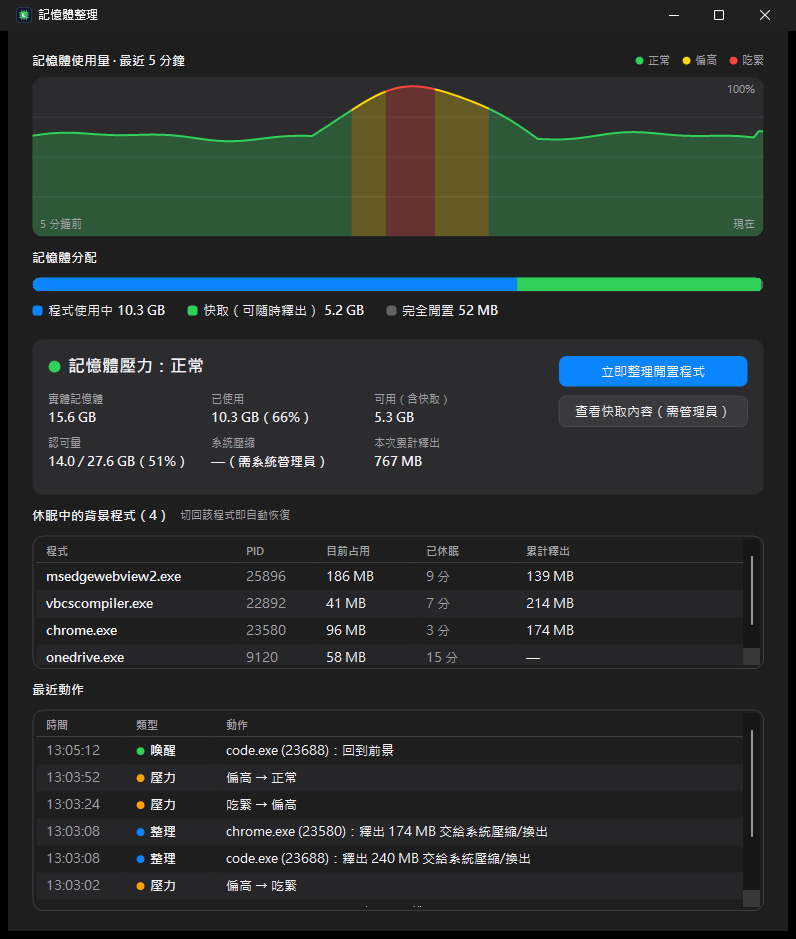
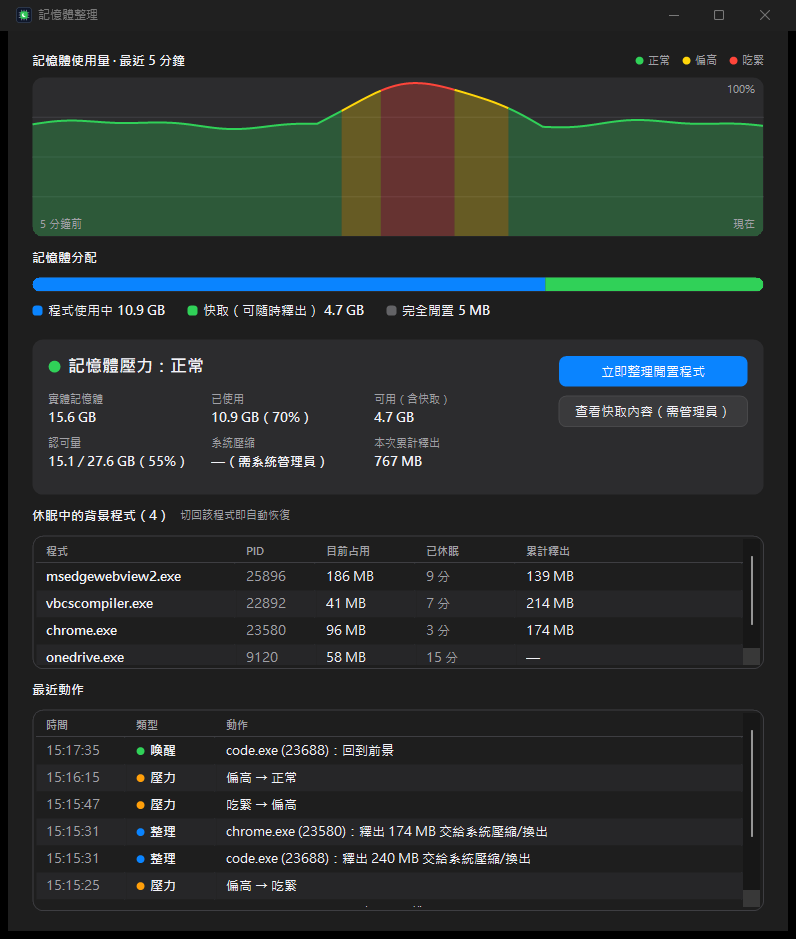
Open the panel faster; build without .NET telemetry
Panel speed (from a separate session):
- The memory breakdown's PDH query takes a second or more to open, so the
  tray now owns it and opens it once on a background thread (5 s after
  start, or as soon as the panel opens); until then the bar shows no
  split, and an open panel refreshes when the counters are ready.
  Self-trim waits for it so those pages are handed back too.
- The panel is filled before its first paint, built with layout
  suspended, and only rebuilds the nap list when its contents change.
- ZebraList skips the empty-area paint when the rows fill the list.
- build.ps1 publishes ReadyToRun, so the first panel open does not wait
  for the JIT.
- --demo: the seeded graph ends at the real usage and stays as seeded.

Build:
- build.ps1 turns off .NET CLI telemetry (DOTNET_CLI_TELEMETRY_OPTOUT)
  and the daily workload update check for the duration of the publish,
  then puts back the caller's own settings.

diff --git a/TrayApp.cs b/TrayApp.cs
@@ -14,6 +14,8 @@ sealed class TrayApp : ApplicationContext
     readonly PressureMonitor pressure;
     readonly ForegroundWatcher foreground;
     readonly ProcessNapper napper;
+    readonly MemoryBreakdown breakdown = new();
+    readonly SynchronizationContext ui;
     readonly NotifyIcon tray;
     readonly Dictionary<string, Icon> icons = new();
     readonly System.Windows.Forms.Timer sampleTimer = new() { Interval = PressureMonitor.SampleSeconds * 1000 };
@@ -55,6 +57,8 @@ sealed class TrayApp : ApplicationContext
         menu.Opening += (_, _) => { Theme.Refresh(); Theme.RoundCorners(menu.Handle); };
 
         tray = new NotifyIcon { ContextMenuStrip = menu, Visible = true };
+        // WinForms installs its UI context with the first control (the menu above): capture it only now.
+        ui = SynchronizationContext.Current!;
         tray.MouseClick += (_, e) => { if (e.Button == MouseButtons.Left) ShowPanel(); };
 
         sampleTimer.Tick += (_, _) => OnSample();
@@ -63,19 +67,20 @@ sealed class TrayApp : ApplicationContext
 
         var rights = Startup.IsAdmin ? "（以系統管理員執行：本次不寫入紀錄檔與設定檔）" : "";
         ActionLog.Add(forced.HasValue ? $"啟動（模擬壓力：{PressureMonitor.Label(forced.Value)}）{rights}" : $"啟動{rights}");
-        if (Demo.On) pressure.SeedDemoHistory();
         OnSample();
+        if (Demo.On) pressure.SeedDemoHistory(); // after the first reading, so the demo graph ends at the real usage
         napper.Cycle(pressure.Level, Roomy); // baseline CPU counters
         sampleTimer.Start();
         cycleTimer.Start();
 
         // Startup pages (JIT, WinForms init) are never needed again: hand them back once settled.
         var settle = new System.Windows.Forms.Timer { Interval = 5000 };
-        settle.Tick += (_, _) => { settle.Dispose(); TrimSelf(); };
+        // The panel's memory breakdown counters take a second or more to open: do that now, off the UI thread, so the
+        // panel opens at once. Trim only once they are open, so their pages go too.
+        settle.Tick += (_, _) => { settle.Dispose(); WarmBreakdown().ContinueWith(_ => ui.Post(_ => TrimSelf(), null)); };
         settle.Start();
 
         // "MemTidy.exe --exit" from a script or build.ps1 asks this instance to quit cleanly (restoring every app).
-        var ui = SynchronizationContext.Current!;
         exitWait = ThreadPool.RegisterWaitForSingleObject(Program.ExitSignal, (_, _) => ui.Post(_ => ExitThread(), null), null, -1, true);
 
         if (showPanel) ShowPanel();
@@ -94,6 +99,9 @@ sealed class TrayApp : ApplicationContext
 
     static Icon? appIcon;
     public static Icon AppIcon => appIcon ??= Icon.ExtractAssociatedIcon(Environment.ProcessPath!) ?? SystemIcons.Application;
+
+    /// <summary>Opens the breakdown counters in the background (once); an open panel shows them as soon as they are ready.</summary>
+    Task WarmBreakdown() => breakdown.WarmUp(() => ui.Post(_ => panel?.RefreshView(), null));
 
     static void TrimSelf()
     {
@@ -230,15 +238,17 @@ sealed class TrayApp : ApplicationContext
     {
         if (panel == null)
         {
-            panel = new StatusForm(pressure, napper, settings, AppIcon, TidyNow, ShowCache);
+            WarmBreakdown(); // opened before the 5 s settle: start the counters now
+            panel = new StatusForm(pressure, napper, settings, breakdown, AppIcon, TidyNow, ShowCache);
             panel.FormClosed += (_, _) =>
             {
                 panel = null;
                 TrimSelf(); // a resident tool should not keep UI pages around
             };
+            panel.RefreshView(); // fill before the first paint, not right after it
             panel.Show();
         }
-        panel.RefreshView();
+        else panel.RefreshView();
         if (panel.WindowState == FormWindowState.Minimized) panel.WindowState = FormWindowState.Normal;
         panel.Activate();
     }
@@ -314,6 +324,7 @@ sealed class TrayApp : ApplicationContext
         tray.Dispose();
         foreground.Dispose();
         pressure.Dispose();
+        breakdown.Dispose();
         base.ExitThreadCore();
     }
 }

diff --git a/StatusForm.cs b/StatusForm.cs
@@ -9,7 +9,7 @@ sealed class StatusForm : Form
     readonly PressureMonitor pressure;
     readonly ProcessNapper napper;
     readonly Settings settings;
-    readonly MemoryBreakdown breakdown = new();
+    readonly MemoryBreakdown breakdown;
     readonly GraphPanel graph;
     readonly BreakdownBar bar = new();
     readonly StatusCard card = new() { Margin = new Padding(0, 16, 0, 0) };
@@ -17,12 +17,15 @@ sealed class StatusForm : Form
     readonly ZebraList napList = new(("程式", 200, Cell.Strong), ("PID", 80, Cell.Muted), ("目前占用", 100, Cell.Text), ("已休眠", 100, Cell.Muted), ("累計釋出", 100, Cell.Text));
     readonly ZebraList logList = new(("時間", 90, Cell.Muted), ("類型", 90, Cell.Dot), ("動作", 400, Cell.Text));
     DateTime lastLogTop;
+    string? lastNaps;
 
-    public StatusForm(PressureMonitor pressure, ProcessNapper napper, Settings settings, Icon icon, Action tidyNow, Action showCache)
+    public StatusForm(PressureMonitor pressure, ProcessNapper napper, Settings settings, MemoryBreakdown breakdown, Icon icon, Action tidyNow, Action showCache)
     {
         this.pressure = pressure;
         this.napper = napper;
         this.settings = settings;
+        this.breakdown = breakdown; // owned by the tray: opening its counters takes a second or more
+        SuspendLayout();
         Theme.Refresh();
         var p = Theme.Current;
 
@@ -36,7 +39,6 @@ sealed class StatusForm : Form
         ClientSize = new Size(780, 900);
         MinimumSize = new Size(660, 760);
         StartPosition = FormStartPosition.CenterScreen;
-        FormClosed += (_, _) => breakdown.Dispose();
 
         graph = new GraphPanel(pressure);
         var tidy = new MacButton("立即整理閒置程式") { Primary = true, Behind = q => q.Fill };
@@ -50,6 +52,7 @@ sealed class StatusForm : Form
         {
             Dock = DockStyle.Fill, ColumnCount = 1, Padding = new Padding(24, 12, 24, 20), BackColor = p.Window,
         };
+        layout.SuspendLayout();
         void Row(Control c, SizeType type, float size)
         {
             layout.RowStyles.Add(new RowStyle(type, size));
@@ -68,6 +71,9 @@ sealed class StatusForm : Form
         Row(new SectionHeader("最近動作"), SizeType.Absolute, 40);
         Row(new ListFrame(logList), SizeType.Percent, 60);
         Controls.Add(layout);
+        layout.ResumeLayout(false);
+        ResumeLayout(false);
+        PerformLayout();
     }
 
     protected override void OnHandleCreated(EventArgs e)
@@ -110,8 +116,15 @@ sealed class StatusForm : Form
             ? Demo.Naps.Select(d => new ProcessNapper.NapView(d.Pid, d.Name, d.WorkingSet, DateTime.Now - d.Napped, d.Trimmed)).ToList()
             : napper.Napped.ToList();
         napHeader.Title = $"休眠中的背景程式（{naps.Count}）";
-        napList.SetRows(naps.Select(n => new ListRow(
-            [n.Name, n.Pid.ToString(), Format.Bytes(n.WorkingSet), Format.Ago(n.NappedAt), n.TrimmedBytes > 0 ? Format.Bytes(n.TrimmedBytes) : "—"])));
+        var napRows = naps.Select(n => new ListRow(
+            [n.Name, n.Pid.ToString(), Format.Bytes(n.WorkingSet), Format.Ago(n.NappedAt), n.TrimmedBytes > 0 ? Format.Bytes(n.TrimmedBytes) : "—"])).ToList();
+        // Every two seconds: rebuild the rows only when what they show changed (keeps the selection, no flicker).
+        var napKey = string.Join('\n', napRows.Select(r => string.Join('\t', r.Cells)));
+        if (napKey != lastNaps)
+        {
+            lastNaps = napKey;
+            napList.SetRows(napRows);
+        }
 
         if (Demo.On)
         {

diff --git a/MemoryBreakdown.cs b/MemoryBreakdown.cs
@@ -5,7 +5,9 @@ namespace MemTidy;
 /// <summary>
 /// Splits RAM the way Activity Monitor does: what programs use, what the system keeps as cache
 /// (standby list: recently used files and apps, released instantly when needed), and what is truly empty.
-/// Read through performance counters, which need no admin rights. Only alive while the panel is open.
+/// Read through performance counters, which need no admin rights.
+/// Opening the PDH query loads the counter registry and perflib and takes a second or more, so the tray opens it once
+/// on a background thread (<see cref="WarmUp"/>) and keeps it; until it is ready <see cref="Read"/> returns null.
 /// </summary>
 sealed class MemoryBreakdown : IDisposable
 {
@@ -33,27 +35,42 @@ sealed class MemoryBreakdown : IDisposable
     [DllImport("pdh.dll")]
     static extern uint PdhCloseQuery(IntPtr query);
 
-    readonly IntPtr query;
+    IntPtr query;
     readonly IntPtr[] standby = new IntPtr[3];
-    readonly IntPtr free;
-    readonly bool ok;
+    IntPtr free;
+    volatile bool ok, disposed;
+    Task? warming;
 
-    public MemoryBreakdown()
+    /// <summary>Opens the query on a thread-pool thread (once); <paramref name="ready"/> runs there when it is usable.</summary>
+    public Task WarmUp(Action? ready = null) => warming ??= Task.Run(() =>
     {
-        if (PdhOpenQueryW(null, IntPtr.Zero, out query) != 0) return;
+        Open();
+        if (ok) ready?.Invoke();
+    });
+
+    void Open()
+    {
+        if (PdhOpenQueryW(null, IntPtr.Zero, out var q) != 0) return;
         string[] standbyPaths =
         [
             @"\Memory\Standby Cache Core Bytes",
             @"\Memory\Standby Cache Normal Priority Bytes",
             @"\Memory\Standby Cache Reserve Bytes",
         ];
-        ok = true;
+        bool good = true;
         for (int i = 0; i < standbyPaths.Length; i++)
-            ok &= PdhAddEnglishCounterW(query, standbyPaths[i], IntPtr.Zero, out standby[i]) == 0;
-        ok &= PdhAddEnglishCounterW(query, @"\Memory\Free & Zero Page List Bytes", IntPtr.Zero, out free) == 0;
+            good &= PdhAddEnglishCounterW(q, standbyPaths[i], IntPtr.Zero, out standby[i]) == 0;
+        good &= PdhAddEnglishCounterW(q, @"\Memory\Free & Zero Page List Bytes", IntPtr.Zero, out free) == 0;
+        good &= PdhCollectQueryData(q) == 0; // the first collection is slow too: do it here, not on the UI thread
+        lock (this)
+        {
+            query = q;
+            if (disposed) { PdhCloseQuery(q); query = IntPtr.Zero; return; }
+            ok = good;
+        }
     }
 
-    /// <summary>Returns (cache, empty) in bytes, or null if the counters are unavailable.</summary>
+    /// <summary>Returns (cache, empty) in bytes, or null if the counters are unavailable or not warmed up yet.</summary>
     public (long Cache, long Empty)? Read()
     {
         if (!ok || PdhCollectQueryData(query) != 0) return null;
@@ -69,6 +86,12 @@ sealed class MemoryBreakdown : IDisposable
 
     public void Dispose()
     {
-        if (query != IntPtr.Zero) PdhCloseQuery(query);
+        lock (this)
+        {
+            disposed = true;
+            ok = false;
+            if (query != IntPtr.Zero) PdhCloseQuery(query);
+            query = IntPtr.Zero;
+        }
     }
 }

diff --git a/PressureMonitor.cs b/PressureMonitor.cs
@@ -44,19 +44,24 @@ sealed class PressureMonitor : IDisposable
     public double AvailPct => 100 - UsedPct;
     public double CommitPct => Status.ullTotalPageFile == 0 ? 0 : 100.0 * (Status.ullTotalPageFile - Status.ullAvailPageFile) / Status.ullTotalPageFile;
 
-    /// <summary>Demo mode: five minutes of history shaped like the design (a climb through yellow to red and back).</summary>
+    /// <summary>
+    /// Demo mode: five minutes of history shaped like the design (a climb through yellow to red and back), shifted so
+    /// it ends exactly at the real usage the panel shows next to it. Called after the first reading; in demo mode
+    /// the graph then stays as it is.
+    /// </summary>
     public void SeedDemoHistory()
     {
         history.Clear();
         int n = HistorySeconds / SampleSeconds;
+        static double Wiggle(int i) => 2 * Math.Sin(i / 9.0) + Math.Sin(i / 3.7);
+        double usage = UsedPct, peak = Math.Max(0, 94 - usage); // the climb tops out around 94% (red) from any start
         var now = DateTime.Now;
-        for (int i = 0; i < n - 1; i++)
+        for (int i = 0; i < n; i++)
         {
-            double v = 63 + 2 * Math.Sin(i / 9.0) + Math.Sin(i / 3.7);
-            if (i >= 58 && i <= 104) v += 30 * Math.Sin(Math.PI * (i - 58) / 46);
-            v = Math.Min(v, 97);
+            double bump = i >= 58 && i <= 104 ? peak * Math.Sin(Math.PI * (i - 58) / 46) : 0;
+            double v = Math.Clamp(usage + Wiggle(i) - Wiggle(n - 1) + bump, 5, 97);
             var level = v >= 92 ? Pressure.Red : v >= 80 ? Pressure.Yellow : Pressure.Green;
-            history.Enqueue(new MemSample(now.AddSeconds(-(n - 1 - i) * SampleSeconds), v, 50, level));
+            history.Enqueue(new MemSample(now.AddSeconds(-(n - 1 - i) * SampleSeconds), v, CommitPct, level));
         }
     }
 
@@ -71,6 +76,7 @@ sealed class PressureMonitor : IDisposable
         Level = forced ?? Classify(Level, AvailPct, CommitPct, KernelLowMemory);
         CompressedBytes = ReadCompressionStore();
 
+        if (Demo.On) return; // the demo graph stays as seeded
         history.Enqueue(new MemSample(DateTime.Now, UsedPct, CommitPct, Level));
         while (history.Count > HistorySeconds / SampleSeconds) history.Dequeue();
     }

diff --git a/Widgets.cs b/Widgets.cs
@@ -428,6 +428,8 @@ sealed class ZebraList : ListView
         }
         base.WndProc(ref m);
         if (m.Msg != 0x000F /* WM_PAINT */ || !IsHandleCreated) return;
+        // Rows taller than the list leave no empty area: skip the item-rect query and the extra Graphics on every paint.
+        if (Items.Count * (SmallImageList?.ImageSize.Height ?? Si(26)) >= ClientSize.Height) return;
         int top;
         try { top = Items.Count > 0 ? Items[^1].Bounds.Bottom : HeaderHeight(); }
         catch (ArgumentOutOfRangeException) { return; } // rows are being replaced; the next paint covers it
